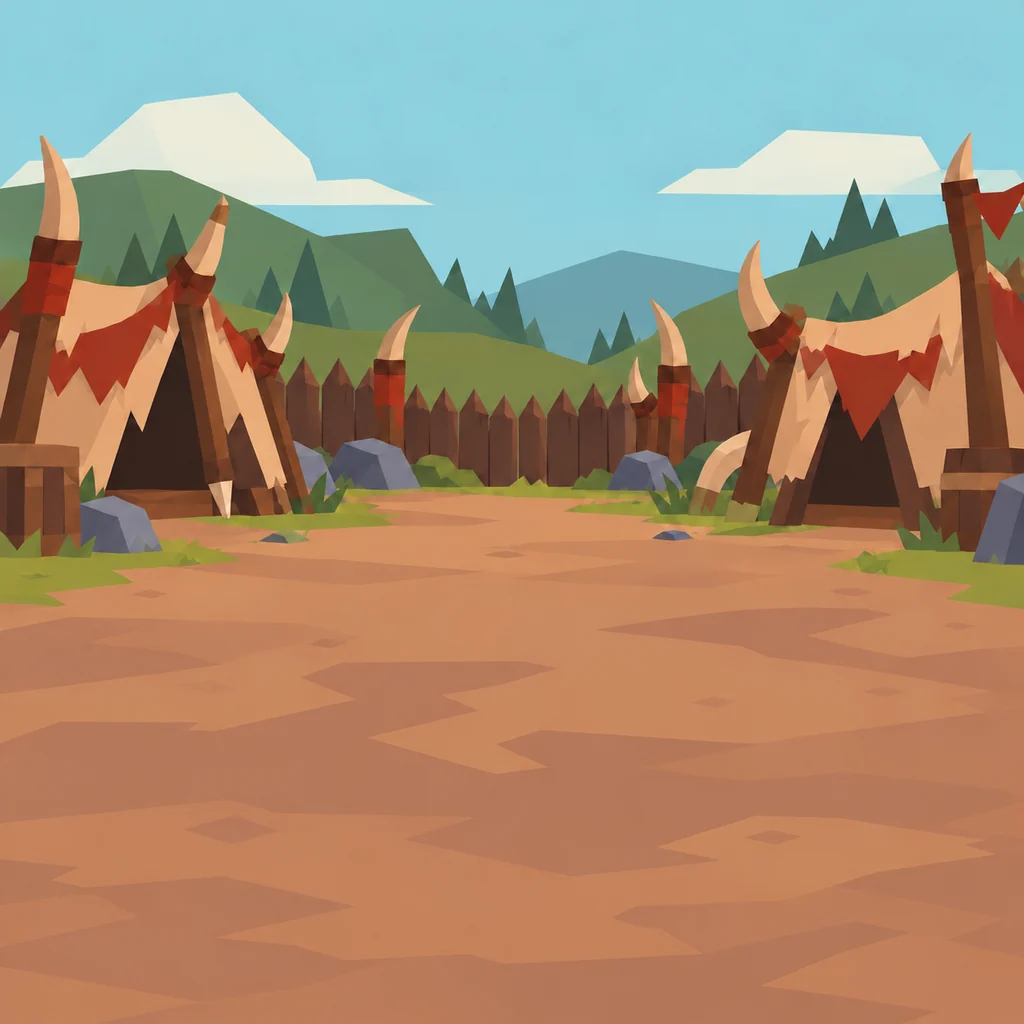
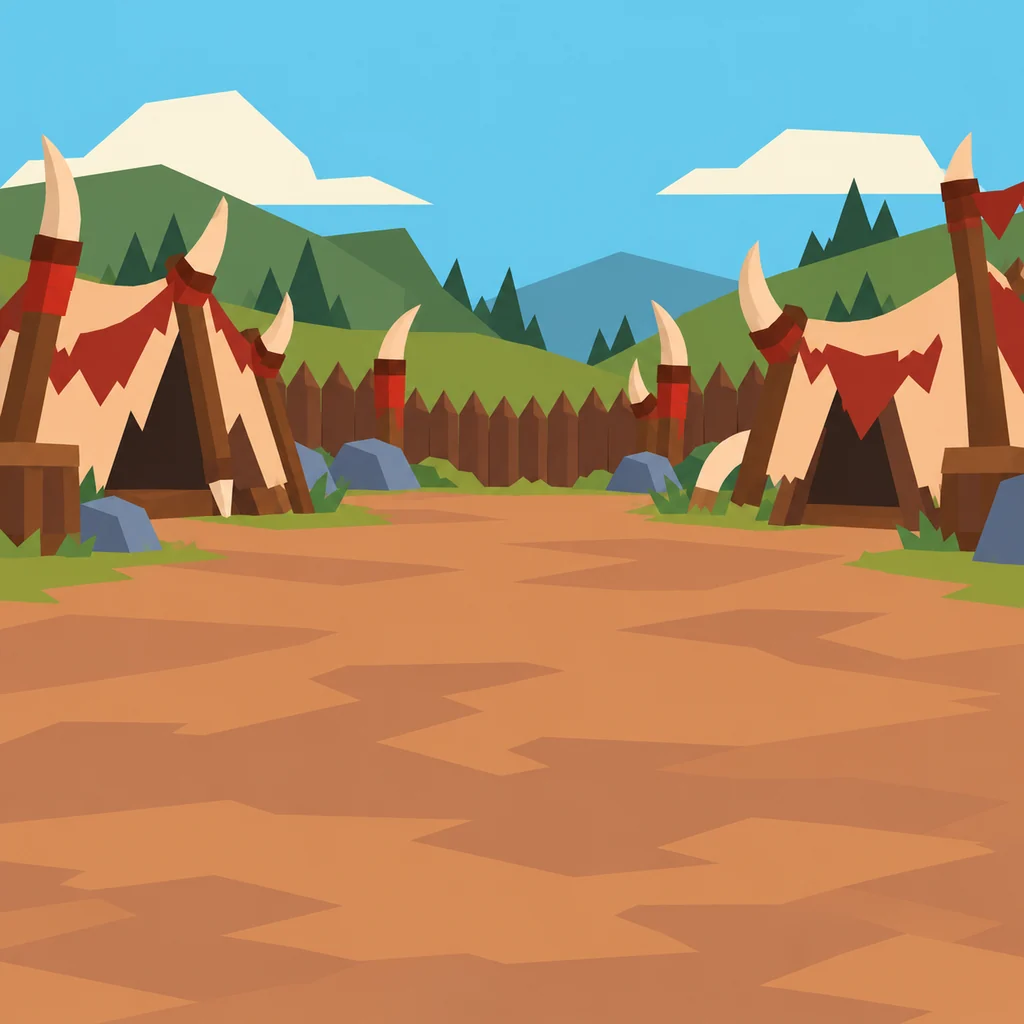
Carte : le bord des dessins nets, et le camp des gobelins
Le masque du sujet passe à 288 et s'élargit de 1,2 U : sans cerne, son
bord flou tombait sur le dessin, que le brillant brûlait en liseré saturé.
Le camp orc mis à jour, et le campement des bois derrière les gobelins.

Claude-Session: https://claude.ai/code/session_013vGhoeZisqBkQNCj1MreFc

diff --git a/src/render/texture-carte.ts b/src/render/texture-carte.ts
@@ -1711,8 +1711,12 @@ function masqueDuSujet(
 ): HTMLCanvasElement {
   const m = dans ?? document.createElement('canvas')
   // Redonner sa largeur remet aussi le contexte à zéro (échelle, fusion).
-  m.width = 96
-  m.height = Math.round(96 * 1.4)
+  // PLUS FIN, ET ÉLARGI D'UN POIL : sans cerne, le bord flou d'un masque de 96
+  // tombait sur le bord du DESSIN, que le brillant brûlait en liseré saturé
+  // (Keko : « de gros artefacts sur les bordures des images »). Le cerne,
+  // lui, absorbait ce flou.
+  m.width = 288
+  m.height = Math.round(288 * 1.4)
   const c = m.getContext('2d')
   if (c === null) return m
   c.fillStyle = '#ffffff'
@@ -1721,6 +1725,11 @@ function masqueDuSujet(
     c.scale(m.width / LARGE, m.width / LARGE)
     c.globalCompositeOperation = 'destination-out'
     couvrir(c, image, marge, aY, LARGE - marge * 2, aH, rognage)
+    // L'élargissement : le même dessin, décalé tout autour de 1,2 U.
+    for (let i = 0; i < 8; i++) {
+      const a = (i * Math.PI) / 4
+      couvrir(c, image, marge + Math.cos(a) * 1.2 * U, aY + Math.sin(a) * 1.2 * U, LARGE - marge * 2, aH, rognage)
+    }
     // ET LE TROU SE BOUCHE DE NOIR : le nuanceur et la vignette lisent le
     // ROUGE, et un dessin presque opaque (alpha 253, les images de Keko sans
     // leur cerne) laissait un blanc presque transparent — lu « libre », le

diff --git a/src/render/carte-emoji.ts b/src/render/carte-emoji.ts
@@ -94,9 +94,10 @@ export function carteDeLEmoji(c: CarteEmoji, bonus?: Bonus): CarteAPeindre {
     contour: 'simple',
     // ET SA ZONE DE TEXTE EST UNE BULLE : voir `CarteAPeindre.texte`.
     texte: 'bulle',
-    // LE CAMP DES ORCS, peint par Keko, derrière les orcs : sa variation sans
-    // rochers devant ; `?camp=ancien` : le premier, `?camp=0` : l'éclat.
-    fondImage: c.race === 'orc' && CAMP !== '0' ? (CAMP === 'ancien' ? 'fonds/camp-orc.webp' : 'fonds/orc.webp') : undefined,
+    // LE CAMP DE SA RACE, peint par Keko : les tentes à cornes des orcs, le
+    // campement des bois des gobelins ; `?camp=ancien` : le premier camp orc
+    // (rochers devant), `?camp=0` : l'éclat.
+    fondImage: CAMP === '0' ? undefined : c.race === 'orc' ? (CAMP === 'ancien' ? 'fonds/camp-orc.webp' : 'fonds/orc.webp') : 'fonds/gobelin.webp',
   }
 }
 

diff --git a/CLAUDE.md b/CLAUDE.md
@@ -156,7 +156,7 @@ suit est ce qu'il faut savoir avant d'ouvrir un fichier.*
   de quatre clous ; le sachet du même cuir porte le même symbole
   (`?marque=ancienne` : le blason peint et le bouquet de personnages) ; la plaque est un parchemin
   (`PLAQUE_CLAIRE`), l'encre brune ; titre du sachet et noms en **Grenze 800**
-  (`FAMILLE_TITRE`), Baloo pour le reste ; fond de bois et bokehs de bougie ; les rayons ont un MOTIF (`MOTIF_DES_RAYONS`, `?motif=eclat|flammes|droits`, l'éclat par défaut — seize pointes inégales —, rosace essayée et retirée : `FORMES_DES_CLAIRS` + `ondeDesRayons`, une seule fonction `clairDuMotif` lue par le brillant des vignettes et, en GLSL (`CLAIR_DU_MOTIF_GLSL`), par le nuanceur ; le peintre trace les mêmes formes) — *le masque du sujet, le cerne holo et le relief en dépendent : on change la forme, pas le système* ; **les ORCS ont le camp peint par Keko** (`fondImage` → `public/fonds/orc.webp`, la variation sans rochers, à la place des touches et des rayons ; le masque reste posé, le brillant de l'éclat y joue sans saturer, `motifDeLaToile`/`satureDeLaToile` ; `?brillantfond=doux` la lueur seule, `?camp=ancien` le premier camp, `?camp=0` l'éclat) ; le
+  (`FAMILLE_TITRE`), Baloo pour le reste ; fond de bois et bokehs de bougie ; les rayons ont un MOTIF (`MOTIF_DES_RAYONS`, `?motif=eclat|flammes|droits`, l'éclat par défaut — seize pointes inégales —, rosace essayée et retirée : `FORMES_DES_CLAIRS` + `ondeDesRayons`, une seule fonction `clairDuMotif` lue par le brillant des vignettes et, en GLSL (`CLAIR_DU_MOTIF_GLSL`), par le nuanceur ; le peintre trace les mêmes formes) — *le masque du sujet, le cerne holo et le relief en dépendent : on change la forme, pas le système* ; **chaque race a son camp peint par Keko** (`fondImage` → `public/fonds/orc.webp` et `gobelin.webp`, à la place des touches et des rayons ; le masque reste posé, le brillant de l'éclat y joue sans saturer, `motifDeLaToile`/`satureDeLaToile` ; `?brillantfond=doux` la lueur seule, `?camp=ancien` le premier camp, `?camp=0` l'éclat ; le masque du sujet est à 288 et élargi de 1,2 U : plus fin, sans cerne il brûlait le bord du dessin) ; le
   blanc des communes tire vers l'ivoire. Cache par rayon et par piste.
 
 ### L'ouverture — portrait, une carte à la fois
@@ -520,7 +520,7 @@ Les deux pipelines tournent **hors du build** et profitent du cache de
 | `?brillant=0`, `?rayonsbrillants=0`, `?lin=0.09` | la bordure, les rayons clairs sans leur brillant ; le lin tressé essayé puis retiré |
 | `?visage=🤩` | un autre emoji à la place du « o » du titre du sachet |
 | `?sombres=0.6` | la part de lumière des rayons clairs posée sur les sombres (0,4 par défaut, 0 = l'ancien contraste) |
-| `?camp=0`, `?camp=ancien`, `?brillantfond=doux` | les orcs sur l'éclat ; le premier camp (rochers devant) ; le camp sous une lueur seule, sans les pointes brillantes |
+| `?camp=0`, `?camp=ancien`, `?brillantfond=doux` | les cartes sur l'éclat ; le premier camp (rochers devant) ; le camp sous une lueur seule, sans les pointes brillantes |
 | `?rayons=0`, `?touches=1`, `?decor=bleu` | derrière l'emoji : sans les rayons du cran, avec les touches de clavier, avec le bleu nuit commun au lieu de la nuit du cran |
 | `?extraction`, `?r3f`, `?jeu` | l'archive |
 | `?ecusson` | la planche des symboles de coût |
